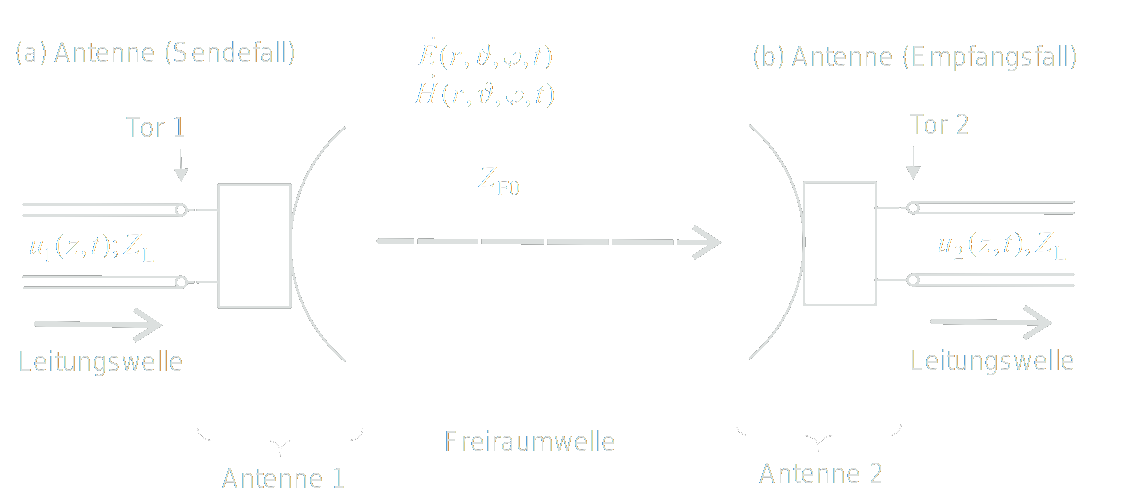
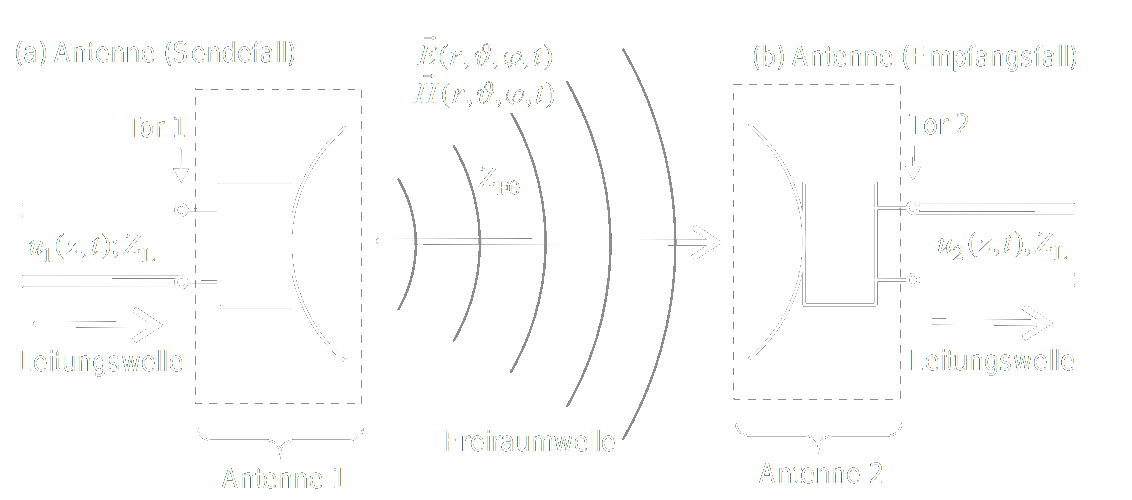
vault backup: 2022-11-24 14:08:13

diff --git a/ksn/ksn (5)/Antenne.md b/ksn/ksn (5)/Antenne.md
@@ -11,8 +11,9 @@ created: 23rd November 2022
 Antennen erzeugen und empfangen [[elektromagnetische Wellen]], die sich im freien Raum ausbreiten:
 - Im <mark style="background: #FFB86CA6;">Sendefall</mark>: Antenne wandelt an die an ihrem [[Streuparameter|Tor]] zugeführte [[Elektrische Leistung|Leistung]] möglichst effizient in eine [[Elektromagnetische Wellen|EM-Welle]] um.
 - Im <mark style="background: #FFB86CA6;">Empfangsfall</mark>: Die Antenne nimmt aus einen [[Elektromagnetische Wellen|EM-Wellenfeld]] [[Elektrische Leistung|Leistung]] auf und stellt diese an ihrem [[Streuparameter|Netzwerktor]] zur Verfügung.
-
+![[ksn/ksn (5)/Untitled Diagram.svg]]
 ![[Pasted image 20221124135725.png]]
 
-
+## Nahfeld und Fernfeld
+![[Pasted image 20221124140038.png]]
 # Quellen
